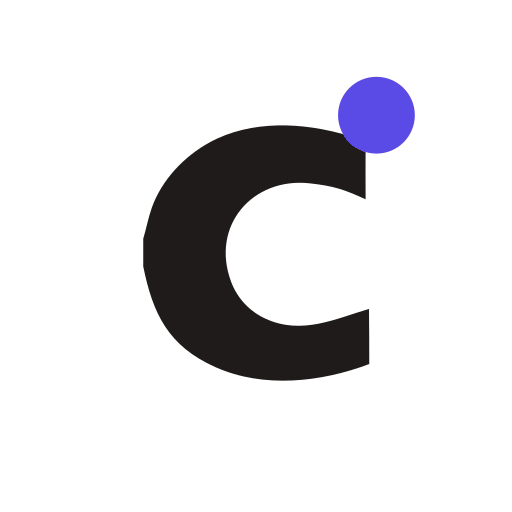
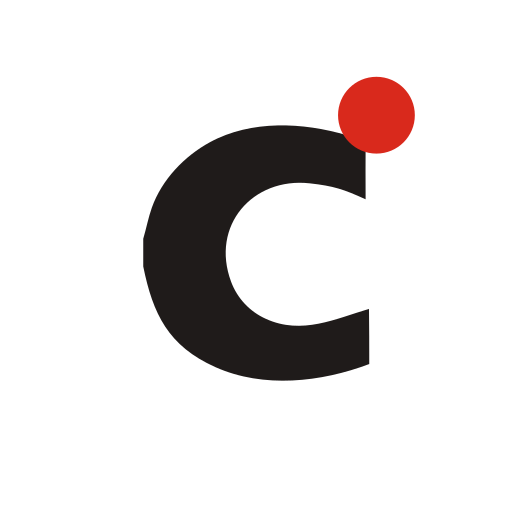
fix(pwa,brand): restaurar punto rojo original (#D9291C) en todos los iconos de la app

Changed region(s): [[0.6562, 0.125, 0.8125, 0.3125]]

diff --git a/public/sw.js b/public/sw.js
@@ -24,8 +24,8 @@ self.addEventListener("push", (evento) => {
   const titulo = datos.titulo || "Creativa";
   const opciones = {
     body: datos.cuerpo || "",
-    icon: "/icons/icon-192.png",
-    badge: "/icons/icon-192.png",
+    icon: "/icons/icon-192.png?v=2",
+    badge: "/icons/icon-192.png?v=2",
     // Con la misma "tag" un aviso nuevo sustituye al anterior (p. ej. varios cambios en un mismo punto).
     tag: datos.tag || undefined,
     renotify: Boolean(datos.tag),
